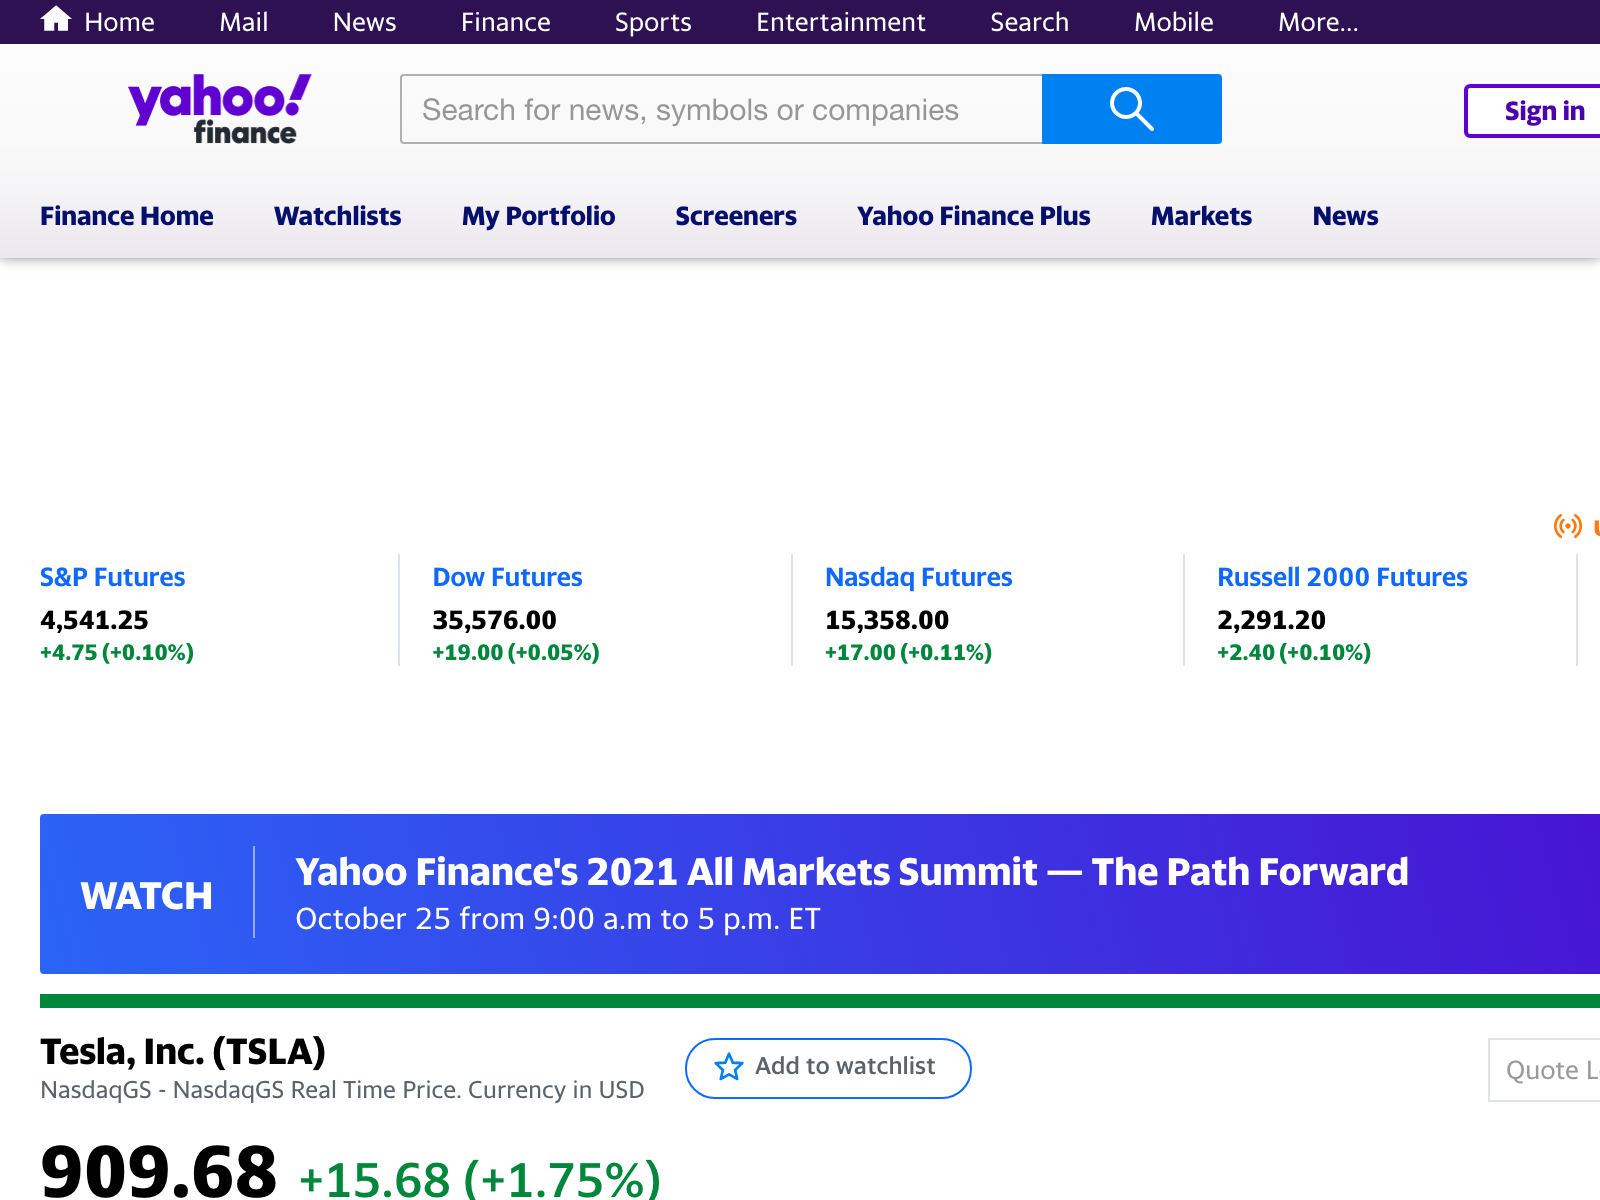
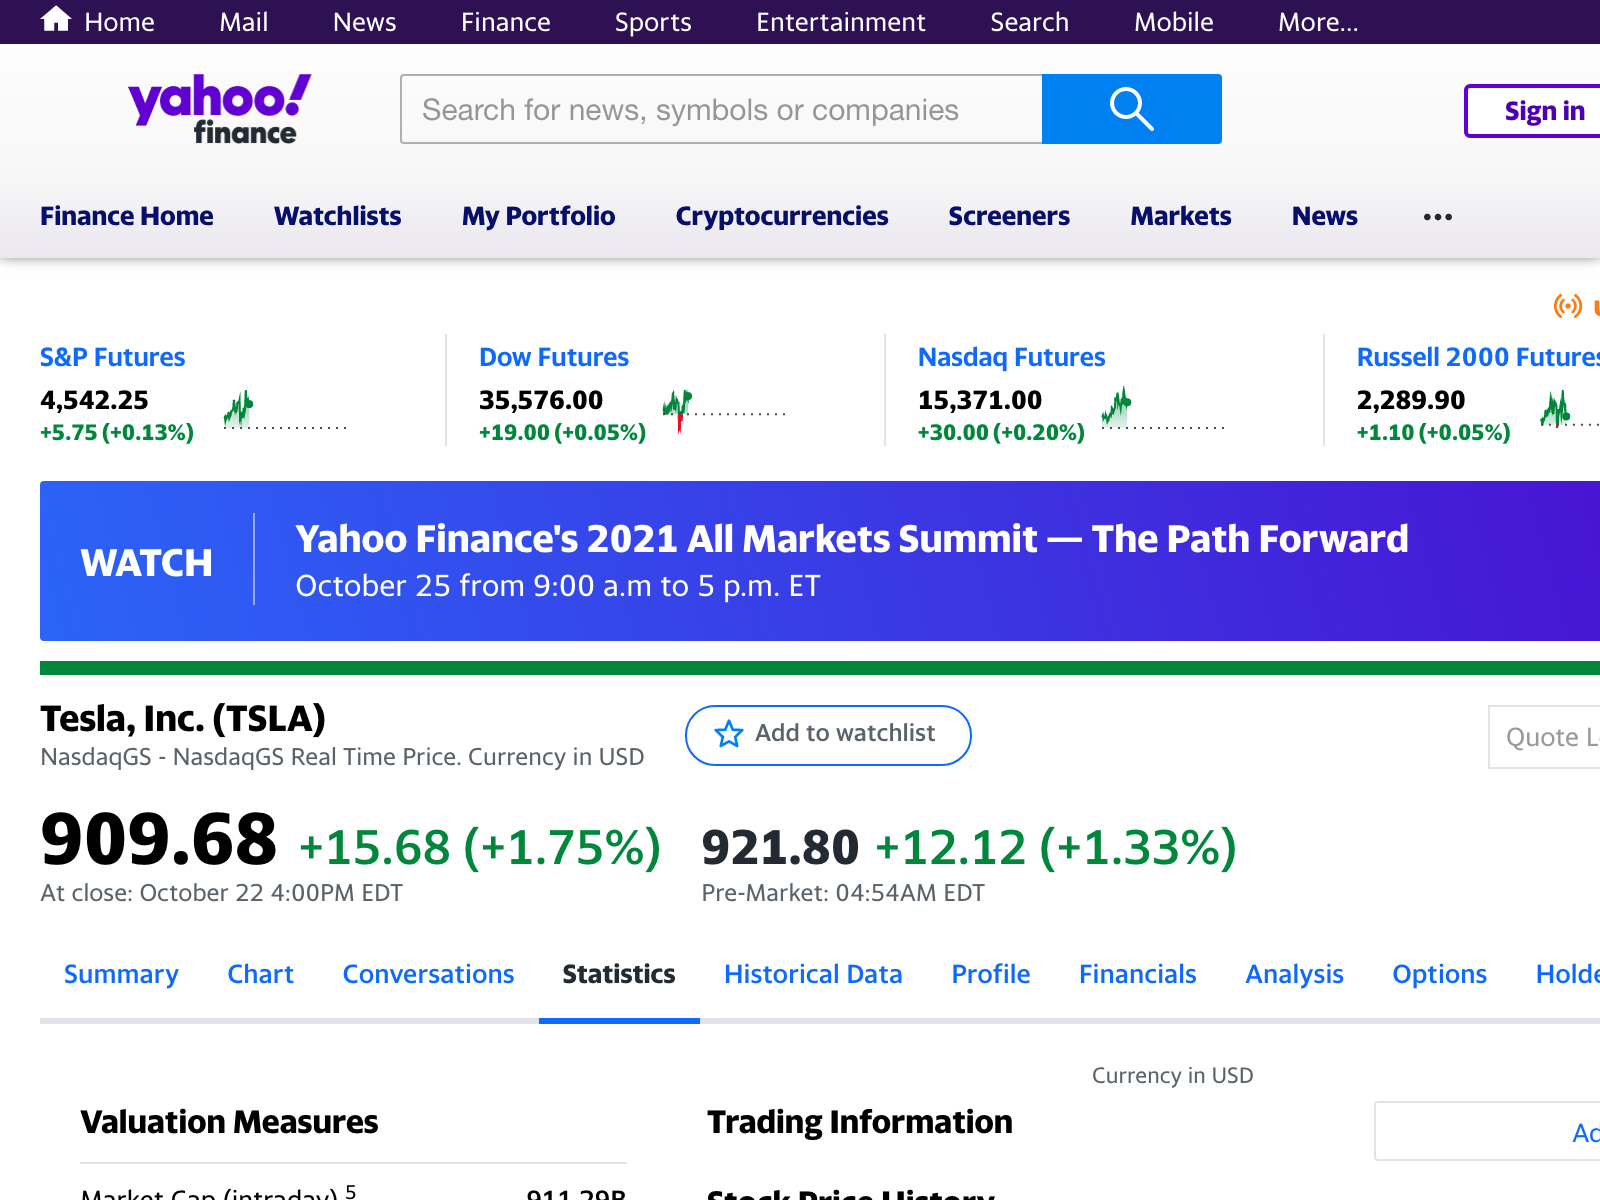
getting table data

diff --git a/src/scrapers/yahooFin.ts b/src/scrapers/yahooFin.ts
@@ -5,6 +5,14 @@ import AdBlocker from "puppeteer-extra-plugin-adblocker";
 puppeteer.use(StealthPlugin());
 puppeteer.use(AdBlocker());
 
+const LEFT_TABLE_SELECTOR = "#quote-summary > div > table > tbody";
+const RIGHT_TABLE_SELECTOR =
+  "#quote-summary > div:nth-child(2) > table > tbody";
+const PERATIO_SELECTOR = "tr:nth-child(3)";
+const EPS_SELECTOR = "tr:nth-child(4)";
+const STATISTICS_TAB_SELECTOR = "#quote-nav > ul > li:nth-child(4) > a";
+const STATS_CONTAIN_SELECTOR = "#Col1-0-KeyStatistics-Proxy";
+
 const searchYahoo = async (symbol: string) => {
   const browser = await puppeteer.launch({
     // headless: false,
@@ -20,10 +28,19 @@ const searchYahoo = async (symbol: string) => {
   await page.click("#header-desktop-search-button");
   await page.waitForSelector("#quote-summary");
   console.log("landed");
-  const content = await page.content();
-  const $ = cheerio.load(content);
+  let content = await page.content();
+  let $ = cheerio.load(content);
 
-  //   getQuote($);
+  getQuote($);
+  getSummary($);
+
+  await page.click(STATISTICS_TAB_SELECTOR);
+  await page.waitForNavigation();
+
+  content = await page.content();
+  $ = cheerio.load(content);
+
+  getStatistics($);
 
   page.screenshot({ path: "yahoo.png" });
   console.log("yahoo finished");
@@ -31,12 +48,64 @@ const searchYahoo = async (symbol: string) => {
 
 searchYahoo("TSLA");
 
+function getStatistics($: Function) {
+  let data: [string, string][] = [];
+  let title: string;
+  $(STATS_CONTAIN_SELECTOR)
+    .find("tbody")
+    .each((i: number, el: HTMLElement) => {
+      $(el)
+        .find("td")
+        .each((i: number, el: HTMLElement) => {
+          if ((i + 1) % 2 !== 0) title = $(el).children("span").text();
+          else data.push([title, $(el).text()]);
+        });
+    });
+  console.log(data);
+  return data;
+}
+
+function getSummary($: Function) {
+  //   let x = $(RIGHT_TABLE_SELECTOR).find(PERATIO_SELECTOR).text();
+  let tableData: [string, string][] = [];
+
+  $(RIGHT_TABLE_SELECTOR)
+    .find("tr")
+    .each((i: number, el: HTMLElement) => {
+      let firstTd: string;
+      $(el)
+        .find("td")
+        .each((i: number, el: HTMLElement) => {
+          let cur = $(el).text();
+
+          if (i === 0) firstTd = cur;
+          else tableData.push([firstTd, cur]);
+        });
+    });
+
+  $(LEFT_TABLE_SELECTOR)
+    .find("tr")
+    .each((i: number, el: HTMLElement) => {
+      let firstTd: string;
+      $(el)
+        .find("td")
+        .each((i: number, el: HTMLElement) => {
+          let cur = $(el).text();
+
+          if (i === 0) firstTd = cur;
+          else tableData.push([firstTd, cur]);
+        });
+    });
+  console.log(tableData);
+  return tableData;
+}
+
 function getQuote($: Function) {
   let quote: string[] = [];
   let x = $("#quote-header-info div:nth-child(3) > div > div")
     .find("span")
     .each((i: number, el: HTMLElement) => {
-      quote.push($(el).text());
+      if (i <= 1) quote.push($(el).text());
     });
 
   console.log(quote);
